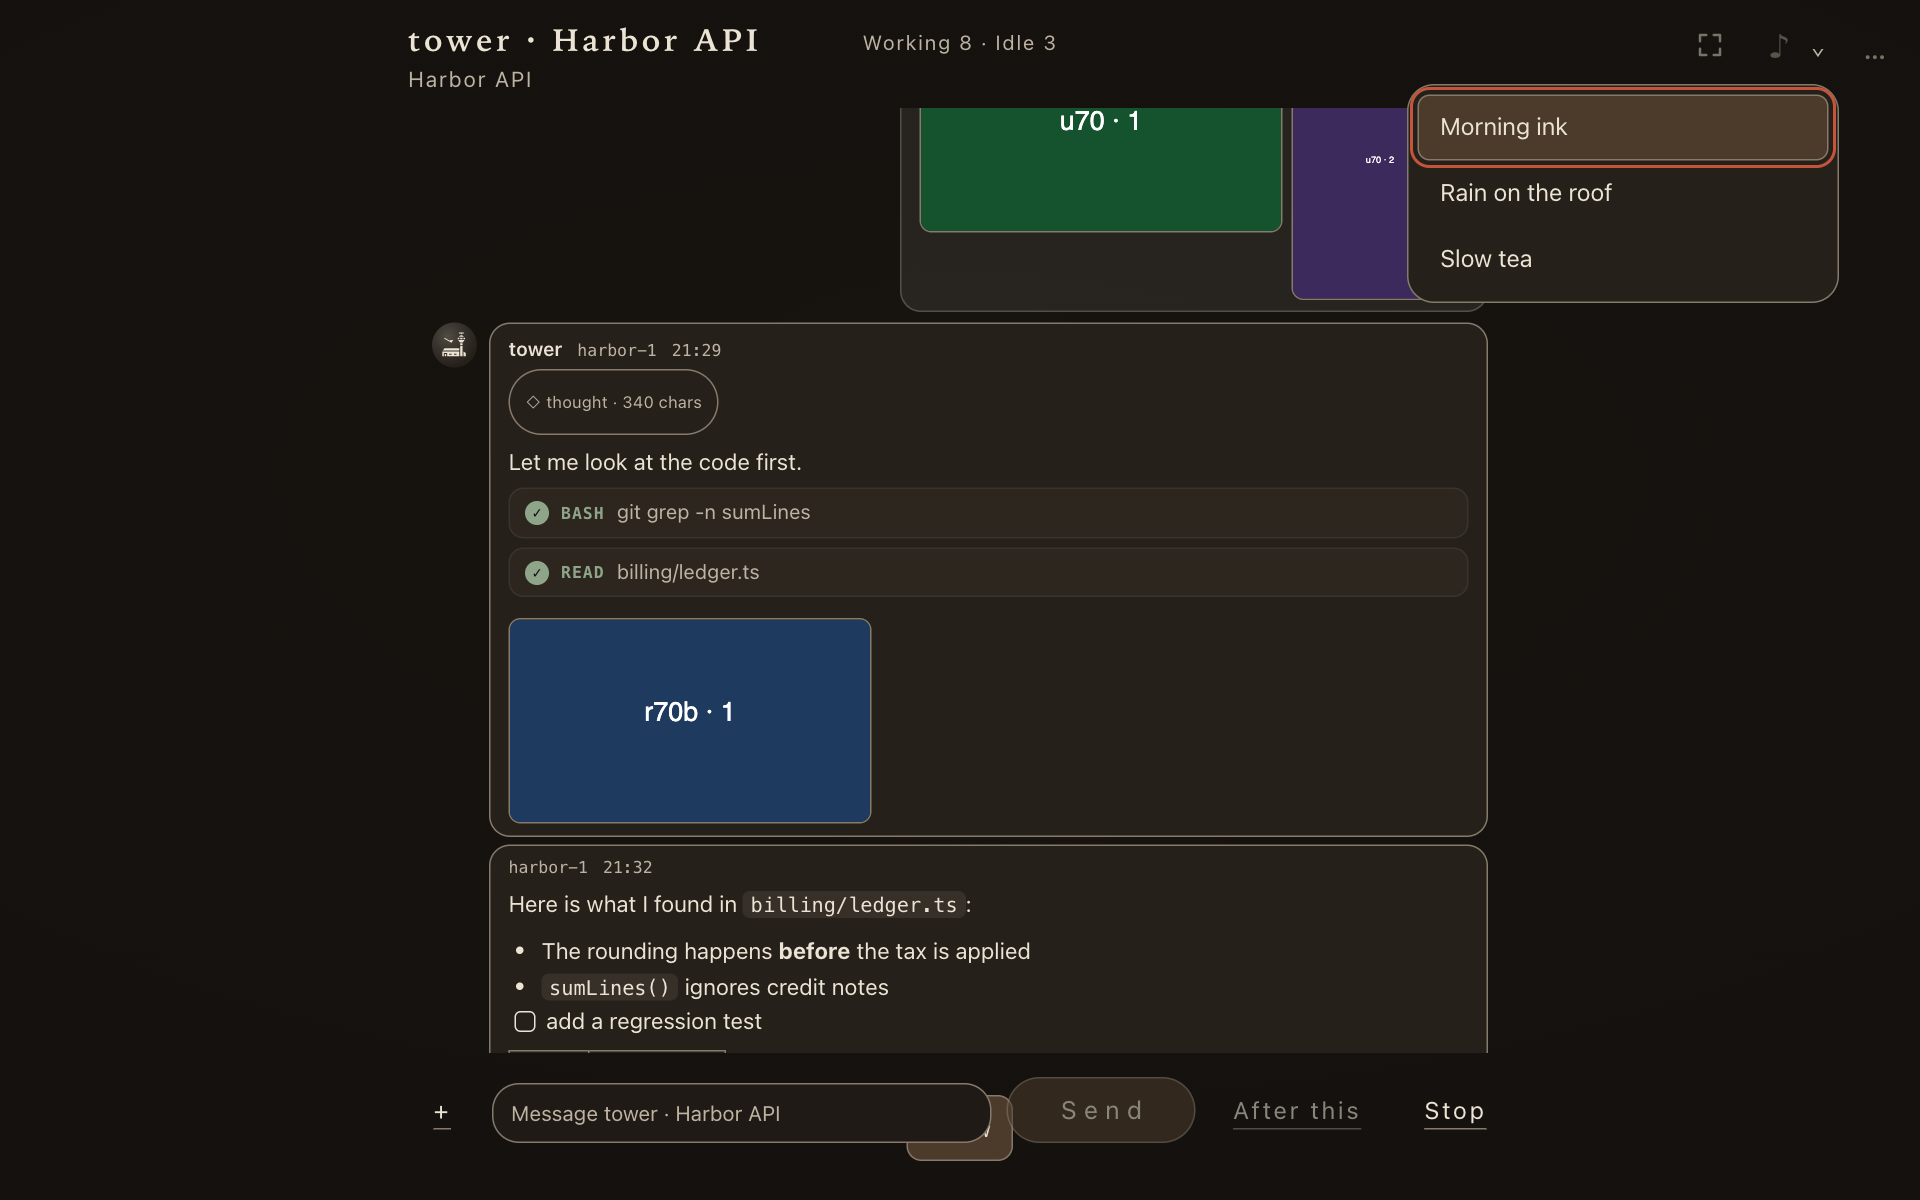
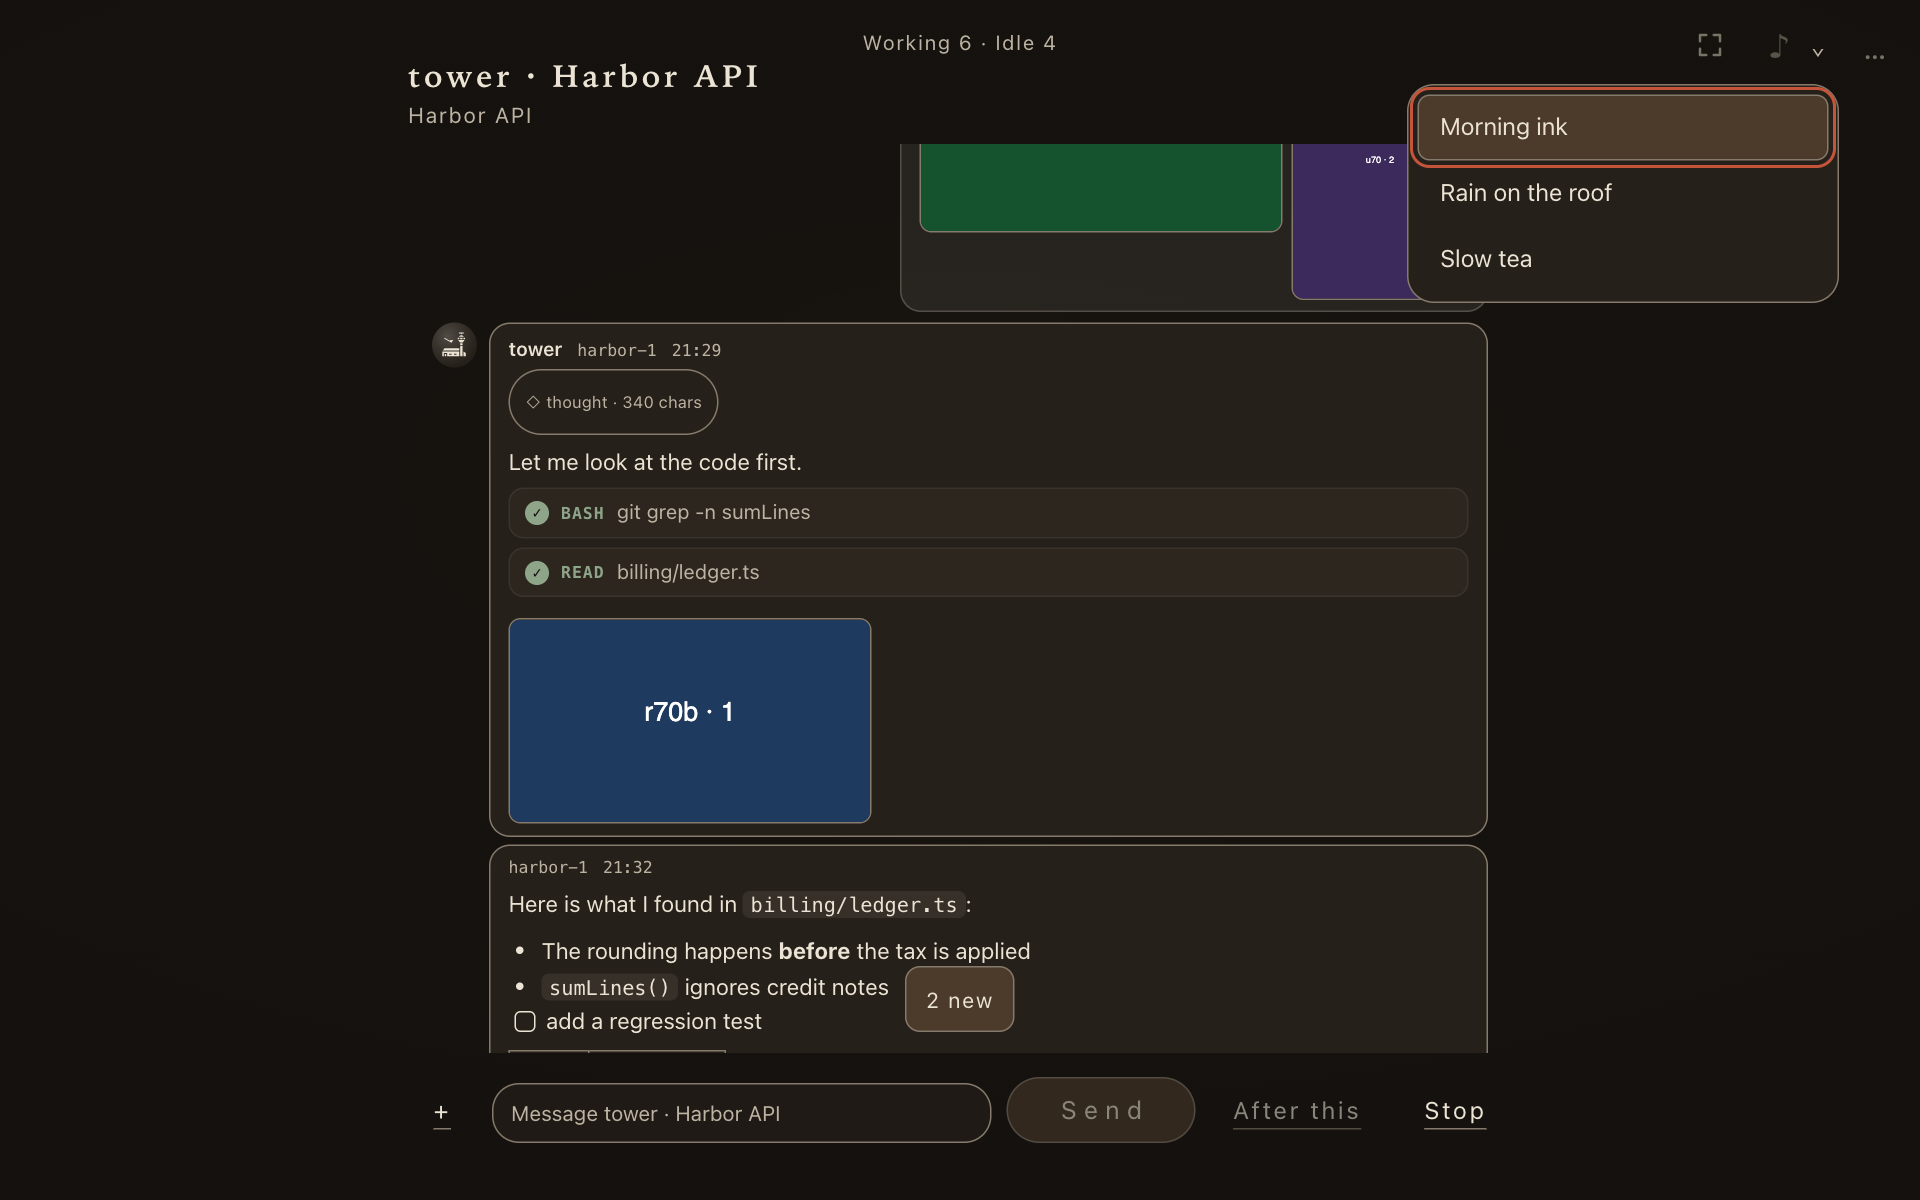
Zen: layout fixes (strip, jump pill, choices, open history, pause and card focus ring, trust list), new pictures

diff --git a/gui/zen.css b/gui/zen.css
@@ -16,6 +16,9 @@
 [data-view="zen"] #zen[hidden] { display: none; }
 [data-view="zen"] #zen :focus-visible { outline: 2px solid var(--zen-seal); outline-offset: 3px; border-radius: 8px; }
 [data-view="zen"] #zen :is(button, input, textarea) { font-family: inherit; }
+/* The pause's circle and the item's card take the focus from the script only so that Enter, Space, and the keys find the layer (zen.ts): neither is a control, so neither wears a ring, and the circle keeps its round shape. */
+[data-view="zen"] #zen :is(.zen-circle, .zen-card):focus-visible { outline: none; }
+[data-view="zen"] #zen .zen-circle:focus-visible { border-radius: 50%; }
 /* The ground: two layers cross-fade over 90 s, and the washes inside the circle drift. */
 [data-view="zen"] .zen-drift { position: absolute; inset: 0; overflow: hidden; pointer-events: none; }
 [data-view="zen"] .zen-drift i { position: absolute; inset: 0; }
@@ -100,16 +103,22 @@
 [data-view="zen"] .zen-said:empty { display: none; }
 [data-view="zen"] .zen-acts { display: flex; justify-content: center; }
 [data-view="zen"] .zen-acts { flex-wrap: wrap; gap: 4px 8px; }
+/* A trust question's lists are centred like the rest of the card, without bullets: a bullet sits at the list's left edge, far from a centred item. */
+[data-view="zen"] .zen-card .trust-group ul { padding: 0; list-style: none; } [data-view="zen"] .zen-card .trust-more { margin-left: 0; }
 [data-view="zen"] .zen-history[hidden] { display: none; }
 [data-view="zen"] .zen-history { display: grid; max-height: min(46vh, 26rem); min-height: 0; text-align: left; border: 1px solid var(--zen-line); border-radius: 14px; background: var(--zen-sunken); overflow: hidden; }
 [data-view="zen"] .zen-history .zen-log { min-height: 0; }
+/* The history is open: the item above it (the question, every choice, the send row) stays whole, and the box takes the room that is left, down to 12rem; when the item and that minimum do not fit the page, the card scrolls as one. */
+[data-view="zen"] .zen-card:has(.zen-history:not([hidden])) :is(.zen-answer, .zen-ask, .ask) { flex: none; }
+[data-view="zen"] .zen-card:has(.zen-history:not([hidden])) .zen-ask .ask > :not(.ask-acts, .ask-note) { flex: none; min-height: 0; overflow: visible; -webkit-mask-image: none; mask-image: none; }
+[data-view="zen"] .zen-card:has(.zen-history:not([hidden])) .zen-history { flex: 1 1 12rem; min-height: 12rem; max-height: min(46vh, 26rem); }
 [data-view="zen"] .zen-history-btn { min-height: 44px; min-width: 44px; }
 [data-view="zen"] .zen-out { margin: 0; min-height: 1.2em; }
 [data-view="zen"] .zen-out[data-tone="error"] { color: var(--zen-clay); }
 [data-view="zen"] .zen-card :is(.ask-q, .ask-title) { font: 400 clamp(1.3rem, 3.4vw, 1.9rem)/1.6 var(--serif); letter-spacing: 0.06em; text-wrap: balance; }
 [data-view="zen"] .zen-card :is(.ask-head, .ask-term, .ask-why, .ask-note, .ask-opt small) { color: var(--zen-ash); }
 [data-view="zen"] .zen-card .ask { border: 0; background: none; padding: 0; box-shadow: none; }
-[data-view="zen"] .zen-card .ask-opts { gap: 8px; }
+[data-view="zen"] .zen-card .ask-opts { gap: 8px; grid-auto-rows: max-content; } /* a short room scrolls the list; it never squeezes a choice below its label and description */
 [data-view="zen"] .zen-card :is(.ask-opt b, .ask-head, .ask-title) { font-weight: 400; }
 [data-view="zen"] .zen-card .ask-head { background: none; text-transform: none; letter-spacing: 0.12em; }
 [data-view="zen"] .zen-card button.ask-opt { padding: 10px 20px; min-height: 44px; border: 1px solid transparent; border-radius: 24px; background: var(--zen-soft); color: var(--zen-paper); font: 400 1.1rem/1.5 var(--serif); letter-spacing: 0.08em; text-align: center; transition: background-color 0.8s var(--zen-ease), border-color 0.8s var(--zen-ease); }
@@ -146,10 +155,10 @@
 [data-view="zen"] .zen-sum-a { flex: 0 2 auto; min-width: 0; overflow: hidden; white-space: pre; text-overflow: ellipsis; color: var(--zen-ash); }
 /* The companion: the log and the composer on the same ink. */
 [data-view="zen"] .zen-company { position: relative; z-index: 1; width: min(46rem, 100%); min-height: 0; display: grid; grid-template-rows: auto minmax(0, 1fr) auto; gap: 8px; }
-[data-view="zen"] .zen-company > header { min-height: 44px; padding-right: 100px; }
+[data-view="zen"] .zen-company > header { min-height: 44px; padding: 24px 100px 0 0; box-sizing: content-box; } /* the strip (centred at the top) has the line above the name, and the corner buttons the room to its right */
 [data-view="zen"] .zen-company .zen-who { font-size: 1.3rem; text-align: left; }
 [data-view="zen"] .zen-company .zen-meta { text-align: left; }
-[data-view="zen"] .zen-log { min-height: 0; display: grid; overflow: hidden; }
+[data-view="zen"] .zen-log { position: relative; min-height: 0; display: grid; overflow: hidden; } /* the log's jump-to-latest pill sits at the log's foot, above the composer (Standard's chat root is its own positioned box) */
 [data-view="zen"] .zen-log .chat-scroll, [data-view="zen"] .zen-log .chat-root { min-height: 0; }
 /* Scrolling the log only scrolls it: at its ends nothing chains to the page (no pull-to-refresh, no history swipe), and a finger moves it up and down only (zen.ts keeps the draft's hold, zenmodel.ts). */
 [data-view="zen"] .zen-log .chat-scroll { overscroll-behavior: contain; touch-action: pan-y; }
@@ -192,7 +201,26 @@
 /* The page holds still (calm.ts: 30 s without input): the circle rests at its exhaled size, the ground on one layer. */
 [data-view="zen"][data-calm] :is(.zen-circle, .zen-circle i, .zen-drift i) { animation: none; }
 [data-view="zen"][data-calm] .zen-drift i:last-child { opacity: 0; }
+@media (max-height: 900px) { /* a page of an ordinary laptop or phone: the card spends less on air, so a question with five two-line choices still shows them all, and only a longer one scrolls */
+	[data-view="zen"] .zen-card:has(.zen-ask) .zen-card-in { gap: 10px; }
+	[data-view="zen"] .zen-card:has(.zen-ask) :is(.ask-q, .ask-title) { font-size: clamp(1.2rem, 3.2vw, 1.6rem); line-height: 1.4; }
+	[data-view="zen"] .zen-card:has(.zen-ask) :is(.zen-answer, .zen-ask, .ask) { gap: 6px; }
+	[data-view="zen"] .zen-card:has(.zen-ask) .ask-opts { gap: 6px; }
+	[data-view="zen"] .zen-card:has(.zen-ask) button.ask-opt { padding-block: 7px; }
+	[data-view="zen"] .zen-card:has(.zen-ask) .zen-out:empty { min-height: 0; }
+}
 /* A short window (a phone turned sideways, a small browser): the card gives the questions the room: no unit sub-line or intro, a smaller name, question and gaps, and a send row that stays one line. */
+@media (max-width: 640px) { /* a phone's strip stands at the left, clear of the corner buttons (the fullscreen, the music with its list, and the menu take the right 160 px) and above the companion's name */
+	[data-view="zen"] .zen-strip { left: max(12px, env(safe-area-inset-left)); translate: none; max-width: calc(100vw - 190px); overflow: hidden; white-space: nowrap; text-overflow: ellipsis; }
+}
+@media (max-width: 600px) { /* a phone: the choices and the gaps are a little tighter, so more of the list is in view before it scrolls */
+	[data-view="zen"] .zen-card:has(.zen-ask) .zen-card-in { gap: 6px; }
+	[data-view="zen"] .zen-card:has(.zen-ask) :is(.zen-answer, .zen-ask, .ask) { gap: 4px; }
+	[data-view="zen"] .zen-card:has(.zen-ask) .ask-opts { gap: 5px; }
+	[data-view="zen"] .zen-card button.ask-opt { padding: 6px 16px; font-size: 1rem; line-height: 1.4; }
+	[data-view="zen"] .zen-card .ask-opt small { font-size: 0.78rem; line-height: 1.35; }
+	[data-view="zen"] .zen-card:has(.zen-ask) :is(.ask-q, .ask-title) { font-size: 1.25rem; }
+}
 @media (max-height: 560px) {
 	[data-view="zen"] .zen-card:has(.zen-ask) .zen-card-in { gap: 4px; padding: 4px; }
 	[data-view="zen"] .zen-card:has(.zen-qs) :is(.zen-meta, .zen-said) { display: none; }

diff --git a/tests/imports.test.ts b/tests/imports.test.ts
@@ -918,10 +918,11 @@ test("the built page is small, self-contained (no remote URLs, fonts, or imports
 	// Views-core R5 (sessionfacts.ts joins the lazy chunks, shared by the focus views and Zen): 252,252 / 102,042, +87 raw / +72 gzipped, cap 252,300 / 102,050.
 	// Z5+Z6+eager trim (zensound.ts, zenmusicbar.ts, zenmusic.ts, zenpage.ts, zenunits.ts join the lazy chunks): 269,304 / 108,191 measured, cap 269,319 / 108,206.
 	// Eager trim round 2 (zenrows.ts joins the lazy chunks): 269,969 / 108,469 measured, cap 269,984 / 108,484.
+	// Zen Z7 layout fixes (the history box scrolled into view when it opens): 270,012 / 108,491 measured, +43 raw / +22 gzipped, cap 270,025 / 108,500.
 	const musicChunk = chunks.find((n) => n.startsWith("zenmusic-")); // zenmusic.ts is a chunk of its own: at most 4 KB raw (the spec's Asset budget)
 	assert.ok(musicChunk, "the music chunk (createPlayer) is in the build");
 	assert.ok(size(musicChunk).length <= 4096, `the music chunk is ${size(musicChunk).length} bytes`);
-	assert.ok(chunks.length >= 1 && total(chunks, (n) => size(n).length) <= 269_984 && total(chunks, gz) <= 108_484, `the chat chunks are ${total(chunks, (n) => size(n).length)} bytes (${total(chunks, gz)} gzipped)`);
+	assert.ok(chunks.length >= 1 && total(chunks, (n) => size(n).length) <= 270_025 && total(chunks, gz) <= 108_500, `the chat chunks are ${total(chunks, (n) => size(n).length)} bytes (${total(chunks, gz)} gzipped)`);
 	// The stylesheet's figure was 22 KB / 6 KB; 0.4.0 raised it by 0.1 KB for the comms anchor highlight, the receive-only strip, and the title link;
 	// 0.5.0 to 24.6 KB / 6.7 KB for the composer, the phone layout with its touch targets and safe-area insets, and the pairing tile.
 	// and to 26 KB / 7 KB for the read-only question panel and the net log that folds on a phone; 0.5.1 to 26.5 KB raw for the queue line in the dialogs.
@@ -1010,7 +1011,8 @@ test("the built page is small, self-contained (no remote URLs, fonts, or imports
 	// Zen's yellows (the ochre tokens, the muted mirror, the paper tokens): 124,740 / 26,839, cap 124,800 / 26,900.
 	// Merge of the terminal card's T4 with main's Zen yellows: 128,119 / 27,465, cap 128,150 / 27,500.
 	// Z5+Z6 (zen.css music and sound rows) took the stylesheet to 131,608 / 27,977 (measured at 314cad1 and after the eager-entry trim), cap +15.
-	assert.ok(total(css, (n) => size(n).length) <= 131_623 && total(css, gz) <= 27_992, `the stylesheet is ${total(css, (n) => size(n).length)} bytes (${total(css, gz)} gzipped)`);
+	// Zen Z7 layout fixes (the ring-less focus, the log's pill box, unsqueezed choices, the open history's rules, the phone and 900 px tightening, the strip's phone place): 133,483 / 28,223 measured, +1,875 raw / +246 gzipped, cap 133,500 / 28,240.
+	assert.ok(total(css, (n) => size(n).length) <= 133_500 && total(css, gz) <= 28_240, `the stylesheet is ${total(css, (n) => size(n).length)} bytes (${total(css, gz)} gzipped)`);
 });
 
 // The Zen rows of the keymap exist only because the Zen chunk's entry imports zenrows.ts for its side effect: nothing else loads them in the page, so dropping that "unused" import leaves Enter, H, [, ], and the palette key dead while every other test stays green.

diff --git a/tests/gui-css.test.ts b/tests/gui-css.test.ts
@@ -159,3 +159,43 @@ test("the terminal card's input label is only for screen readers, in every view:
 	assert.match(rules[0]!, /position:\s*absolute[^}]*width:\s*1px[^}]*height:\s*1px[^}]*clip-path:\s*inset\(50%\)/);
 	assert.doesNotMatch(css + zen, /tcard-row:focus-within/, "nothing reveals it on focus");
 });
+
+// Zen Z7 layout fixes: each of these was a defect seen in the demo's pictures at 390 x 844, 844 x 390, or 1280 x 800.
+const zenRule = (needle: string) => rulesOf(zen).filter((r) => r.parts.some((p) => p.includes(needle)));
+
+test("Zen: the log is the positioned box of its jump-to-latest pill, so the pill sits above the composer", () => {
+	const log = zenRule(".zen-log").find((r) => r.parts.includes('[data-view="zen"] .zen-log'))!;
+	assert.match(log.body, /position:\s*relative/);
+	assert.match(css, /\.chat-root \{ position: relative/, "Standard's own place for the pill is unchanged");
+});
+
+test("Zen: a choice is never squeezed below its label and description, and the list scrolls instead", () => {
+	assert.match(zenRule(".zen-card .ask-opts").map((r) => r.body).join(";"), /grid-auto-rows:\s*max-content/);
+});
+
+test("Zen: the open history leaves the item whole and takes the room that is left", () => {
+	const open = ':has(.zen-history:not([hidden]))';
+	const rules = rulesOf(zen).filter((r) => r.selector.includes(open));
+	const body = (needle: string) => rules.filter((r) => r.selector.includes(needle)).map((r) => r.body).join(";");
+	assert.match(body(".zen-answer"), /flex:\s*none/);
+	assert.match(body(".ask > :not"), /overflow:\s*visible/);
+	assert.match(body(".ask > :not"), /mask-image:\s*none/, "no soft edge over the question's subtitle");
+	assert.match(body(".zen-history"), /flex:\s*1 1 12rem[^}]*min-height:\s*12rem/);
+});
+
+test("Zen: the pause's circle and the item's card take the focus without a ring, and the circle stays round", () => {
+	const ring = rulesOf(zen).filter((r) => r.selector.includes(".zen-circle, .zen-card):focus-visible"));
+	assert.equal(ring.length, 1);
+	assert.match(ring[0]!.body, /outline:\s*none/);
+	assert.match(zenRule(".zen-circle:focus-visible").map((r) => r.body).join(";"), /border-radius:\s*50%/);
+});
+
+test("Zen: a trust list is centred without bullets, and the companion's name has the line below the strip", () => {
+	assert.match(zenRule(".trust-group ul").map((r) => r.body).join(";"), /list-style:\s*none/);
+	assert.match(zenRule(".zen-company > header").map((r) => r.body).join(";"), /padding:\s*24px 100px 0 0/);
+});
+
+test("Zen: on a phone the status strip stands at the left, clear of the corner buttons", () => {
+	const narrow = /@media \(max-width: 640px\) \{[^@]*\.zen-strip \{[^}]*left:\s*max\(12px[^}]*translate:\s*none[^}]*max-width:\s*calc\(100vw - 190px\)/;
+	assert.match(zen, narrow);
+});

diff --git a/gui/zen.ts b/gui/zen.ts
@@ -103,7 +103,7 @@ export function mountZen(root: HTMLElement, deps: ZenDeps, mounts: Mounts = real
 			ctx.textContent = hist?.isOpen() ? m.zen_history_hide() : m.zen_history();
 			if (hist && !hist.el.hidden) hist.el.setAttribute("aria-label", m.zen_history_label());
 		};
-		const toggle = () => (sync(), ctx.hidden || !hist ? false : (hist.toggle(ctx), fade(hist.el), true));
+		const toggle = () => (sync(), ctx.hidden || !hist ? false : (hist.toggle(ctx), fade(hist.el), hist.isOpen() && hist.el.scrollIntoView?.({ block: "nearest" }), true)); // a card taller than the page scrolls to show the box it just opened
 		ctx.onclick = () => void toggle();
 		ctx.hidden = true;
 		skip.onclick = () => apply(model.skip());
